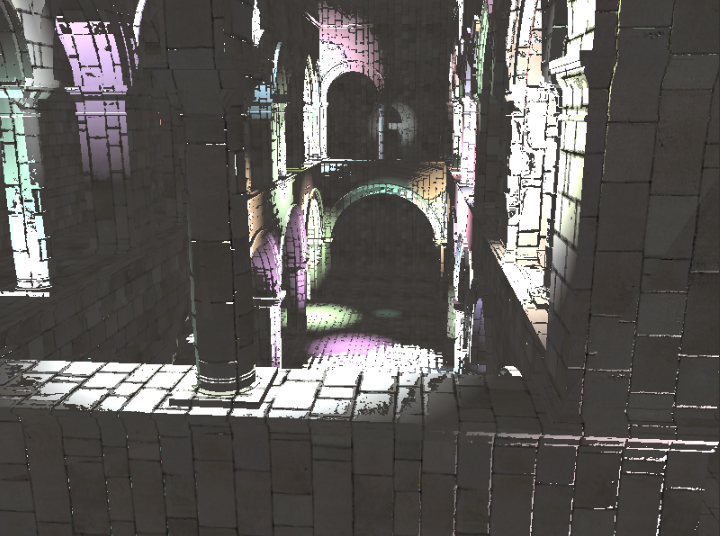
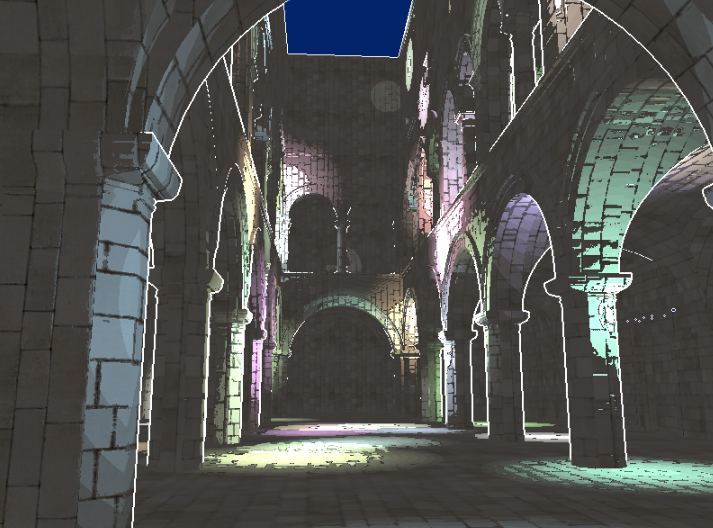
toon outlines

diff --git a/README.md b/README.md
@@ -15,21 +15,17 @@ WebGL Deferred Shading
 
 [![](img/video.png)]
 
+###Toon Shading
+* With Ramp Shading and Outlines
+![](img/toonShading.png)
+
+###Scissor Test
+![](img/scissor_test.png)
+
 ### Debug Images
 
-####Depth
-![](img/depth.png)
-####Position
-![](img/position.png)
-####Geometry Normal
-![](img/geom_normal.png)
-####Color Map
-![](img/color_map.png)
-####Normal Map
-![](img/normal_map.png)
-####Surface Normal
-![](img/surface_normal.png)
-####Scissor Test
-![](img/scissor_test.png)
-####Toon Shading
-![](img/toonShading.png)
+Depth | Position | Geometry Normal
+![](img/depth.png) | ![](img/position.png) | ![](img/geom_normal.png)
+Color Map | Normal Map | Surface Normal
+![](img/color_map.png) | ![](img/normal_map.png) | ![](img/surface_normal.png)
+
